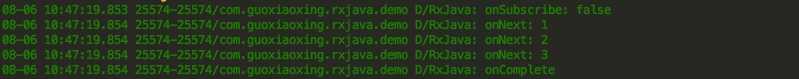
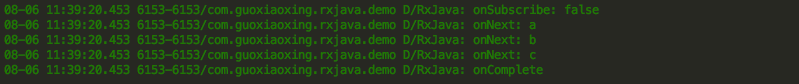
add rxjava document

diff --git a/rxjava/src/main/java/com/guoxiaoxing/framwork/rxjava/MainActivity.java b/rxjava/src/main/java/com/guoxiaoxing/framwork/rxjava/MainActivity.java
@@ -7,11 +7,14 @@ import android.view.View;
 
 import com.orhanobut.logger.Logger;
 
+import org.jetbrains.annotations.NotNull;
+
 import io.reactivex.Observable;
 import io.reactivex.ObservableEmitter;
 import io.reactivex.ObservableOnSubscribe;
 import io.reactivex.Observer;
 import io.reactivex.disposables.Disposable;
+import io.reactivex.functions.BiFunction;
 import io.reactivex.functions.Consumer;
 import io.reactivex.functions.Function;
 
@@ -26,6 +29,8 @@ public class MainActivity extends AppCompatActivity implements View.OnClickListe
 
         findViewById(R.id.btn_opertor_create).setOnClickListener(this);
         findViewById(R.id.btn_opertor_map).setOnClickListener(this);
+        findViewById(R.id.btn_opertor_zip).setOnClickListener(this);
+        findViewById(R.id.btn_opertor_concat).setOnClickListener(this);
     }
 
     @Override
@@ -37,6 +42,12 @@ public class MainActivity extends AppCompatActivity implements View.OnClickListe
             case R.id.btn_opertor_map:
                 map();
                 break;
+            case R.id.btn_opertor_zip:
+                zip();
+                break;
+            case R.id.btn_opertor_concat:
+                concat();
+                break;
             default:
                 break;
         }
@@ -46,12 +57,12 @@ public class MainActivity extends AppCompatActivity implements View.OnClickListe
         Observable.create(new ObservableOnSubscribe<String>() {
             @Override
             public void subscribe(ObservableEmitter<String> e) throws Exception {
-                e.onNext("1");
-                e.onNext("2");
-                e.onNext("3");
+                e.onNext("a");
+                e.onNext("b");
+                e.onNext("c");
                 e.onComplete();
                 //onComplete()调用后事件会继续被发送，但是不会被接收
-                e.onNext("4");
+                e.onNext("d");
             }
         }).subscribe(new Observer<String>() {
             @Override
@@ -81,12 +92,12 @@ public class MainActivity extends AppCompatActivity implements View.OnClickListe
         Observable.create(new ObservableOnSubscribe<String>() {
             @Override
             public void subscribe(ObservableEmitter<String> e) throws Exception {
-                e.onNext("1");
-                e.onNext("2");
-                e.onNext("3");
+                e.onNext("a");
+                e.onNext("b");
+                e.onNext("c");
                 e.onComplete();
                 //onComplete()调用后事件会继续被发送，但是不会被接收
-                e.onNext("4");
+                e.onNext("d");
             }
         }).map(new Function<String, String>() {
             @Override
@@ -101,4 +112,60 @@ public class MainActivity extends AppCompatActivity implements View.OnClickListe
             }
         });
     }
+
+    private void zip() {
+
+        Observable.zip(getStringObservable(), getIntegerObservable(), new BiFunction<String, Integer, String>() {
+            @Override
+            public String apply(@NotNull String s, @NotNull Integer integer) throws Exception {
+
+                return s + "_" + integer;
+            }
+        }).subscribe(new Consumer<String>() {
+            @Override
+            public void accept(String s) throws Exception {
+                Log.d(TAG, "accept: " + s);
+            }
+        });
+    }
+
+    private Observable<String> getStringObservable() {
+        return Observable.create(new ObservableOnSubscribe<String>() {
+
+            @Override
+            public void subscribe(ObservableEmitter<String> e) throws Exception {
+                e.onNext("a");
+                e.onNext("b");
+                e.onNext("c");
+                e.onComplete();
+                e.onNext("d");
+            }
+        });
+    }
+
+    private Observable<Integer> getIntegerObservable() {
+        return Observable.create(new ObservableOnSubscribe<Integer>() {
+
+            @Override
+            public void subscribe(ObservableEmitter<Integer> e) throws Exception {
+                e.onNext(1);
+                e.onNext(2);
+                e.onNext(3);
+                e.onComplete();
+                e.onNext(4);
+            }
+        });
+    }
+
+    private void concat() {
+        //按照事件的发出顺序进行连接
+        Observable.concat(Observable.just(1, 2, 3), Observable.just(4, 5, 6))
+                .subscribe(new Consumer<Integer>() {
+                    @Override
+                    public void accept(Integer integer) throws Exception {
+                        Log.d(TAG, "accept: " + integer);
+                    }
+                });
+    }
+
 }

diff --git a/doc/rxjava/实践篇/03RxJava2实践篇：操作符详解.md b/doc/rxjava/实践篇/03RxJava2实践篇：操作符详解.md
@@ -1,0 +1,165 @@
+# RxJava实践篇：操作符
+
+**关于作者**
+
+>郭孝星，非著名程序员，主要从事Android平台基础架构与中间件方面的工作，欢迎交流技术方面的问题，可以去我的[Github](https://github.com/guoxiaoxing)提交Issue或者发邮件至guoxiaoxingse@163.com与我联系。
+
+
+## create
+
+[create](http://reactivex.io/documentation/operators/create.html)用于闯将一个呗观察者对象Obserable。
+
+<img src="https://github.com/guoxiaoxing/android-open-framwork-analysis/raw/master/art/rxjava/operator_create.png"/>
+
+```java
+Observable.create(new ObservableOnSubscribe<String>() {
+    @Override
+    public void subscribe(ObservableEmitter<String> e) throws Exception {
+        e.onNext("a");
+        e.onNext("b");
+        e.onNext("c");
+        e.onComplete();
+        //onComplete()调用后事件会继续被发送，但是不会被接收
+        e.onNext("d");
+    }
+}).subscribe(new Observer<String>() {
+    @Override
+    public void onSubscribe(Disposable d) {
+        //d.isDisposed()返回false的时候可以正常接收事件，主动调用d.dispose()会切断事件的接收
+        Log.d(TAG, "onSubscribe: " + d.isDisposed());
+    }
+
+    @Override
+    public void onNext(String s) {
+        Log.d(TAG, "onNext: " + s);
+    }
+
+    @Override
+    public void onError(Throwable e) {
+        Log.d(TAG, "onError: " + e.getMessage());
+    }
+
+    @Override
+    public void onComplete() {
+        Log.d(TAG, "onComplete");
+    }
+});
+```
+
+输出打印
+
+<img src="https://github.com/guoxiaoxing/android-open-framwork-analysis/raw/master/art/rxjava/log_operator_create.png"/>
+
+## map
+
+[map](http://reactivex.io/documentation/operators/map.html)将Obervable发出的事件都按照map操作符指定的函数进行变化，其实也就是将Obserable按照
+某种函数关系转换为另一种Observable。
+
+<img src="https://github.com/guoxiaoxing/android-open-framwork-analysis/raw/master/art/rxjava/operator_map.png"/>
+
+```java
+Observable.create(new ObservableOnSubscribe<String>() {
+    @Override
+    public void subscribe(ObservableEmitter<String> e) throws Exception {
+        e.onNext("a");
+        e.onNext("b");
+        e.onNext("c");
+        e.onComplete();
+        //onComplete()调用后事件会继续被发送，但是不会被接收
+        e.onNext("d");
+    }
+}).map(new Function<String, String>() {
+    @Override
+    public String apply(String s) throws Exception {
+        return s + "_apply";
+    }
+}).subscribe(new Consumer<String>() {
+    @Override
+    public void accept(String o) throws Exception {
+        Log.d(TAG, "accept: " + o);
+
+    }
+});
+```
+
+输出打印
+
+<img src="https://github.com/guoxiaoxing/android-open-framwork-analysis/raw/master/art/rxjava/log_operator_map.png"/>
+
+## zip
+
+[zip]()用于将事件两两合并，最终查收的事件数以事件少的哪个为准，一个事件只能被使用一次，组合的顺序会按照事件发送的顺序为准。
+
+<img src="https://github.com/guoxiaoxing/android-open-framwork-analysis/raw/master/art/rxjava/operator_zip.png"/>
+
+
+```java
+private void zip() {
+
+    Observable.zip(getStringObservable(), getIntegerObservable(), new BiFunction<String, Integer, String>() {
+        @Override
+        public String apply(@NotNull String s, @NotNull Integer integer) throws Exception {
+
+            return s + "_" + integer;
+        }
+    }).subscribe(new Consumer<String>() {
+        @Override
+        public void accept(String s) throws Exception {
+            Log.d(TAG, "accept: " + s);
+        }
+    });
+}
+
+private Observable<String> getStringObservable() {
+    return Observable.create(new ObservableOnSubscribe<String>() {
+
+        @Override
+        public void subscribe(ObservableEmitter<String> e) throws Exception {
+            e.onNext("a");
+            e.onNext("b");
+            e.onNext("c");
+            e.onComplete();
+            e.onNext("d");
+        }
+    });
+}
+
+private Observable<Integer> getIntegerObservable() {
+    return Observable.create(new ObservableOnSubscribe<Integer>() {
+
+        @Override
+        public void subscribe(ObservableEmitter<Integer> e) throws Exception {
+            e.onNext(1);
+            e.onNext(2);
+            e.onNext(3);
+            e.onComplete();
+            e.onNext(4);
+        }
+    });
+}
+```
+
+输出打印
+
+<img src="https://github.com/guoxiaoxing/android-open-framwork-analysis/raw/master/art/rxjava/log_operator_zip.png"/>
+
+## concat
+
+[concat](http://reactivex.io/documentation/operators/concat.html)将两个Obervable连接成一个Obervable，发出事件的顺序按照原有Obervable的顺序不变。
+
+<img src="https://github.com/guoxiaoxing/android-open-framwork-analysis/raw/master/art/rxjava/operator_concat.png"/>
+
+```java
+//按照事件的发出顺序进行连接
+Observable.concat(Observable.just(1, 2, 3), Observable.just(4, 5, 6))
+        .subscribe(new Consumer<Integer>() {
+            @Override
+            public void accept(Integer integer) throws Exception {
+                Log.d(TAG, "accept: " + integer);
+            }
+        });
+```
+
+输出打印
+
+<img src="https://github.com/guoxiaoxing/android-open-framwork-analysis/raw/master/art/rxjava/log_operator_concat.png"/>
